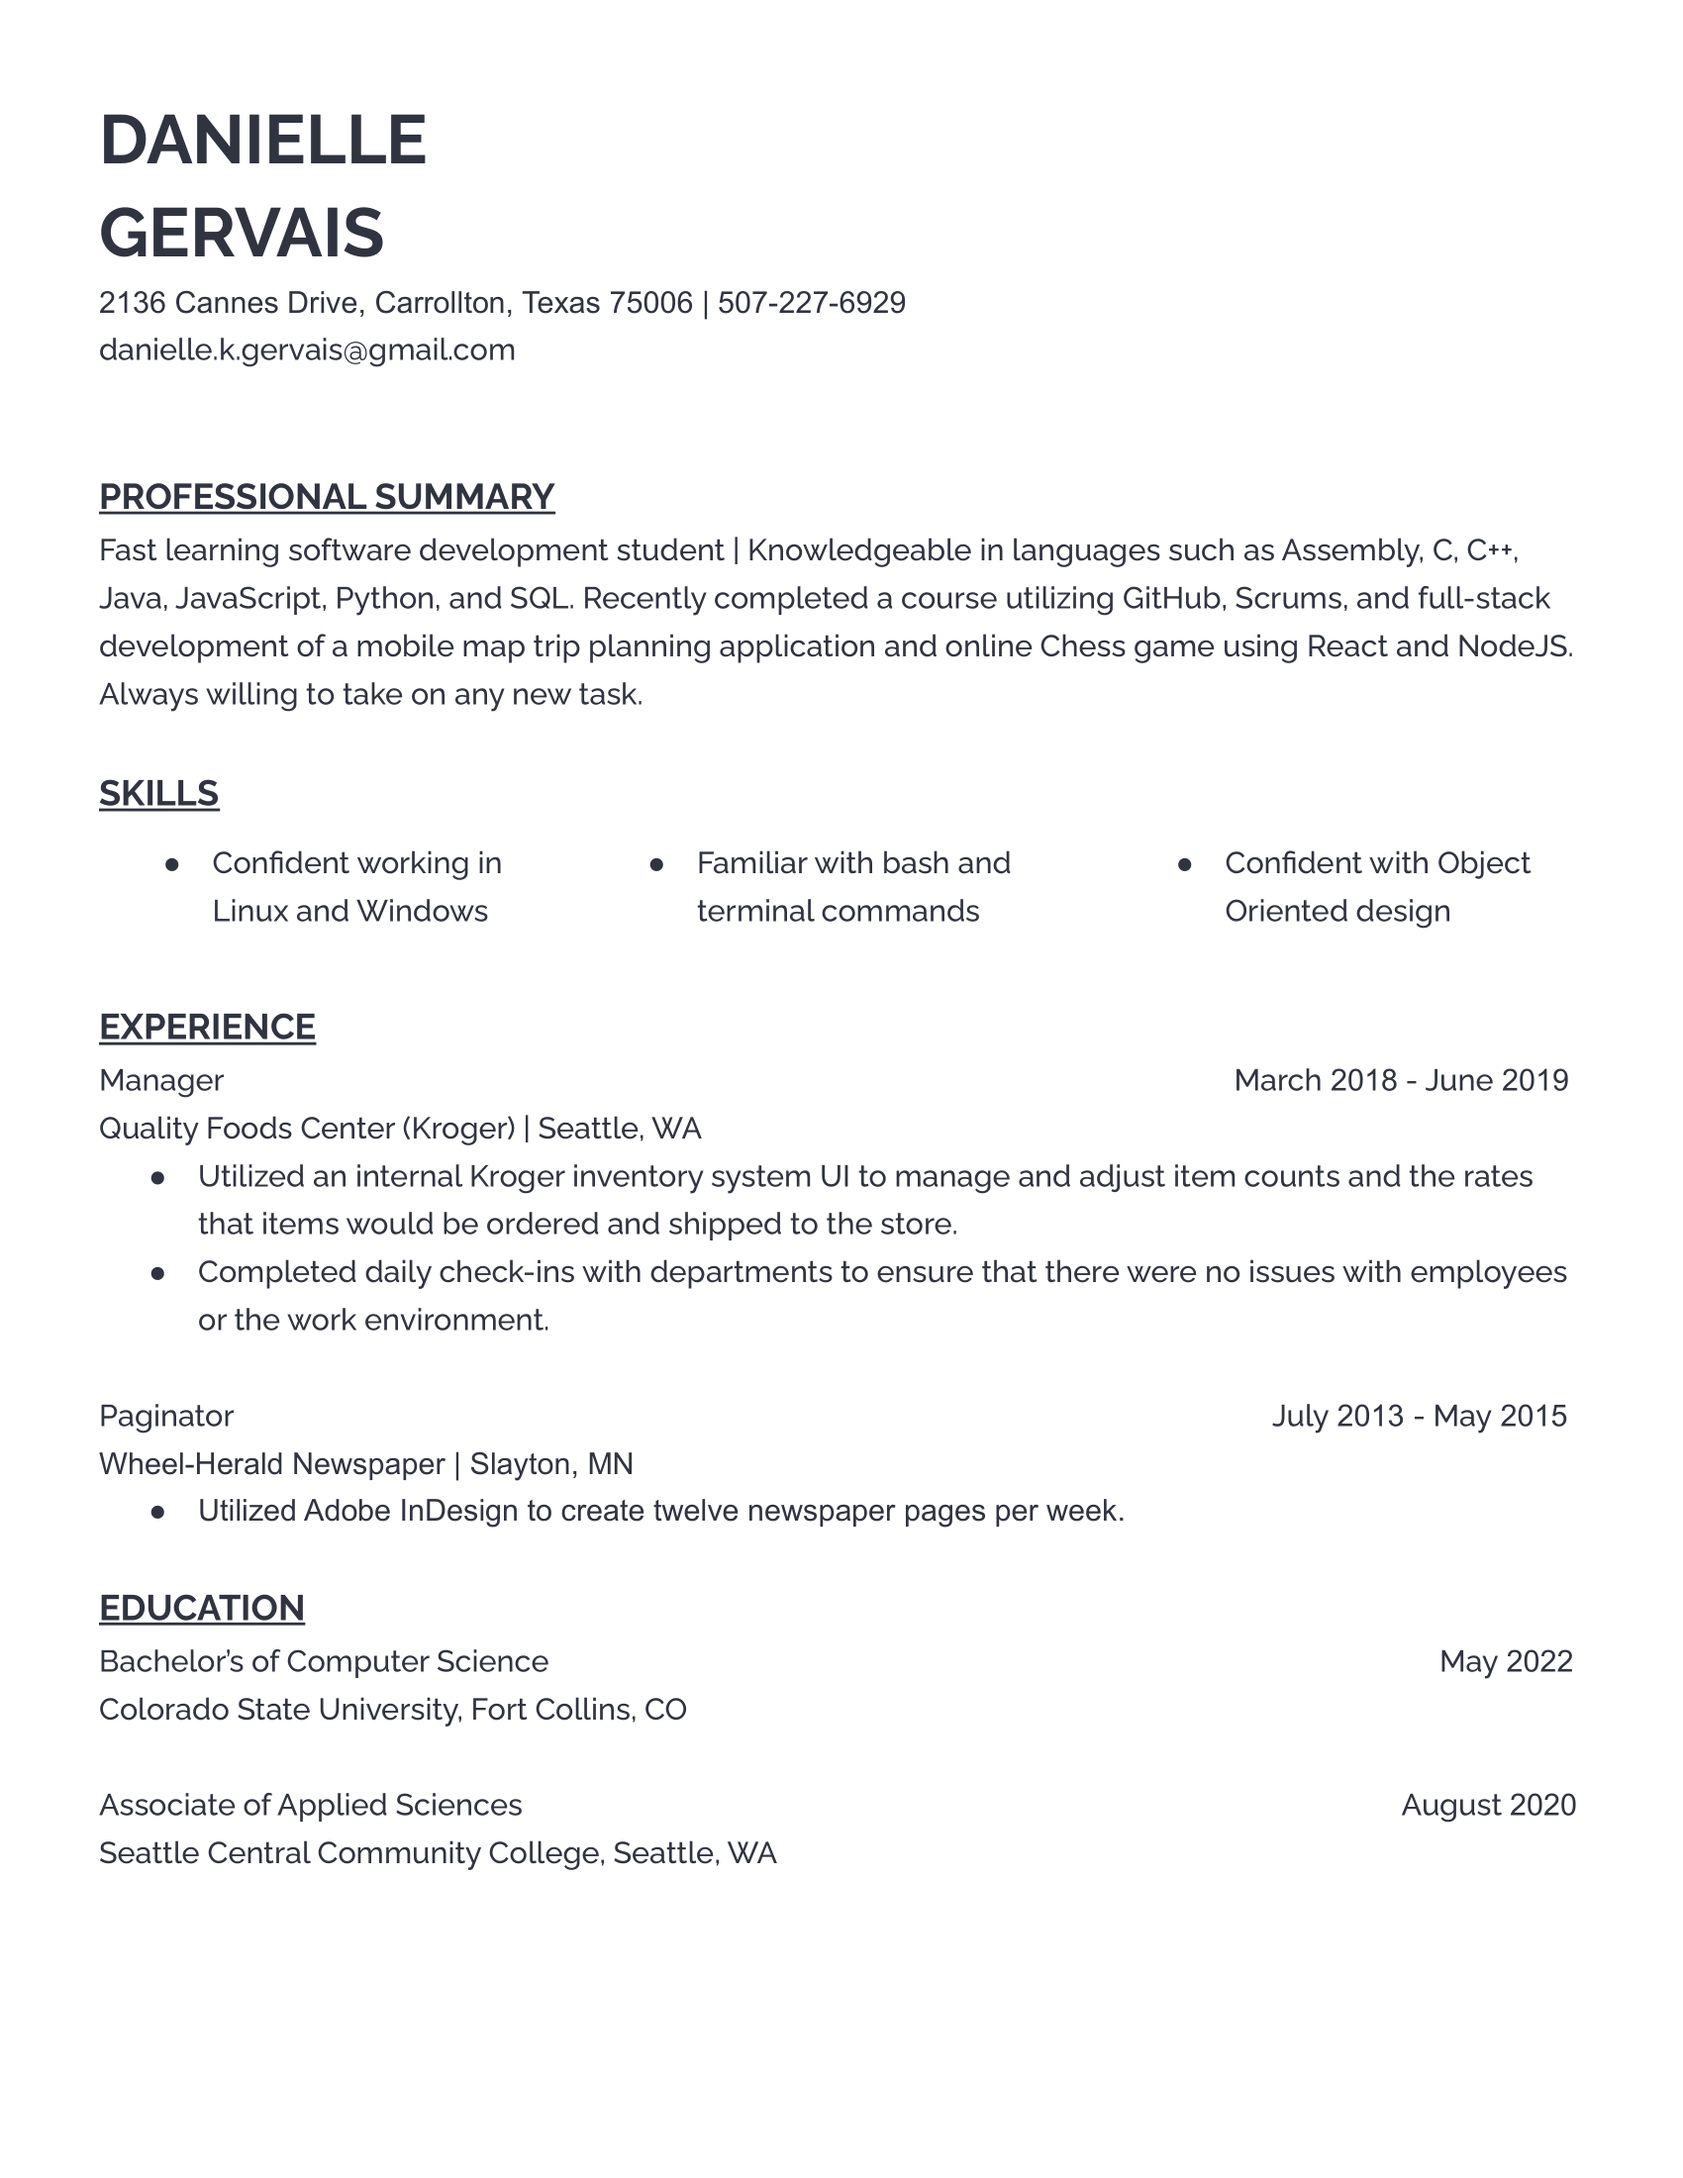
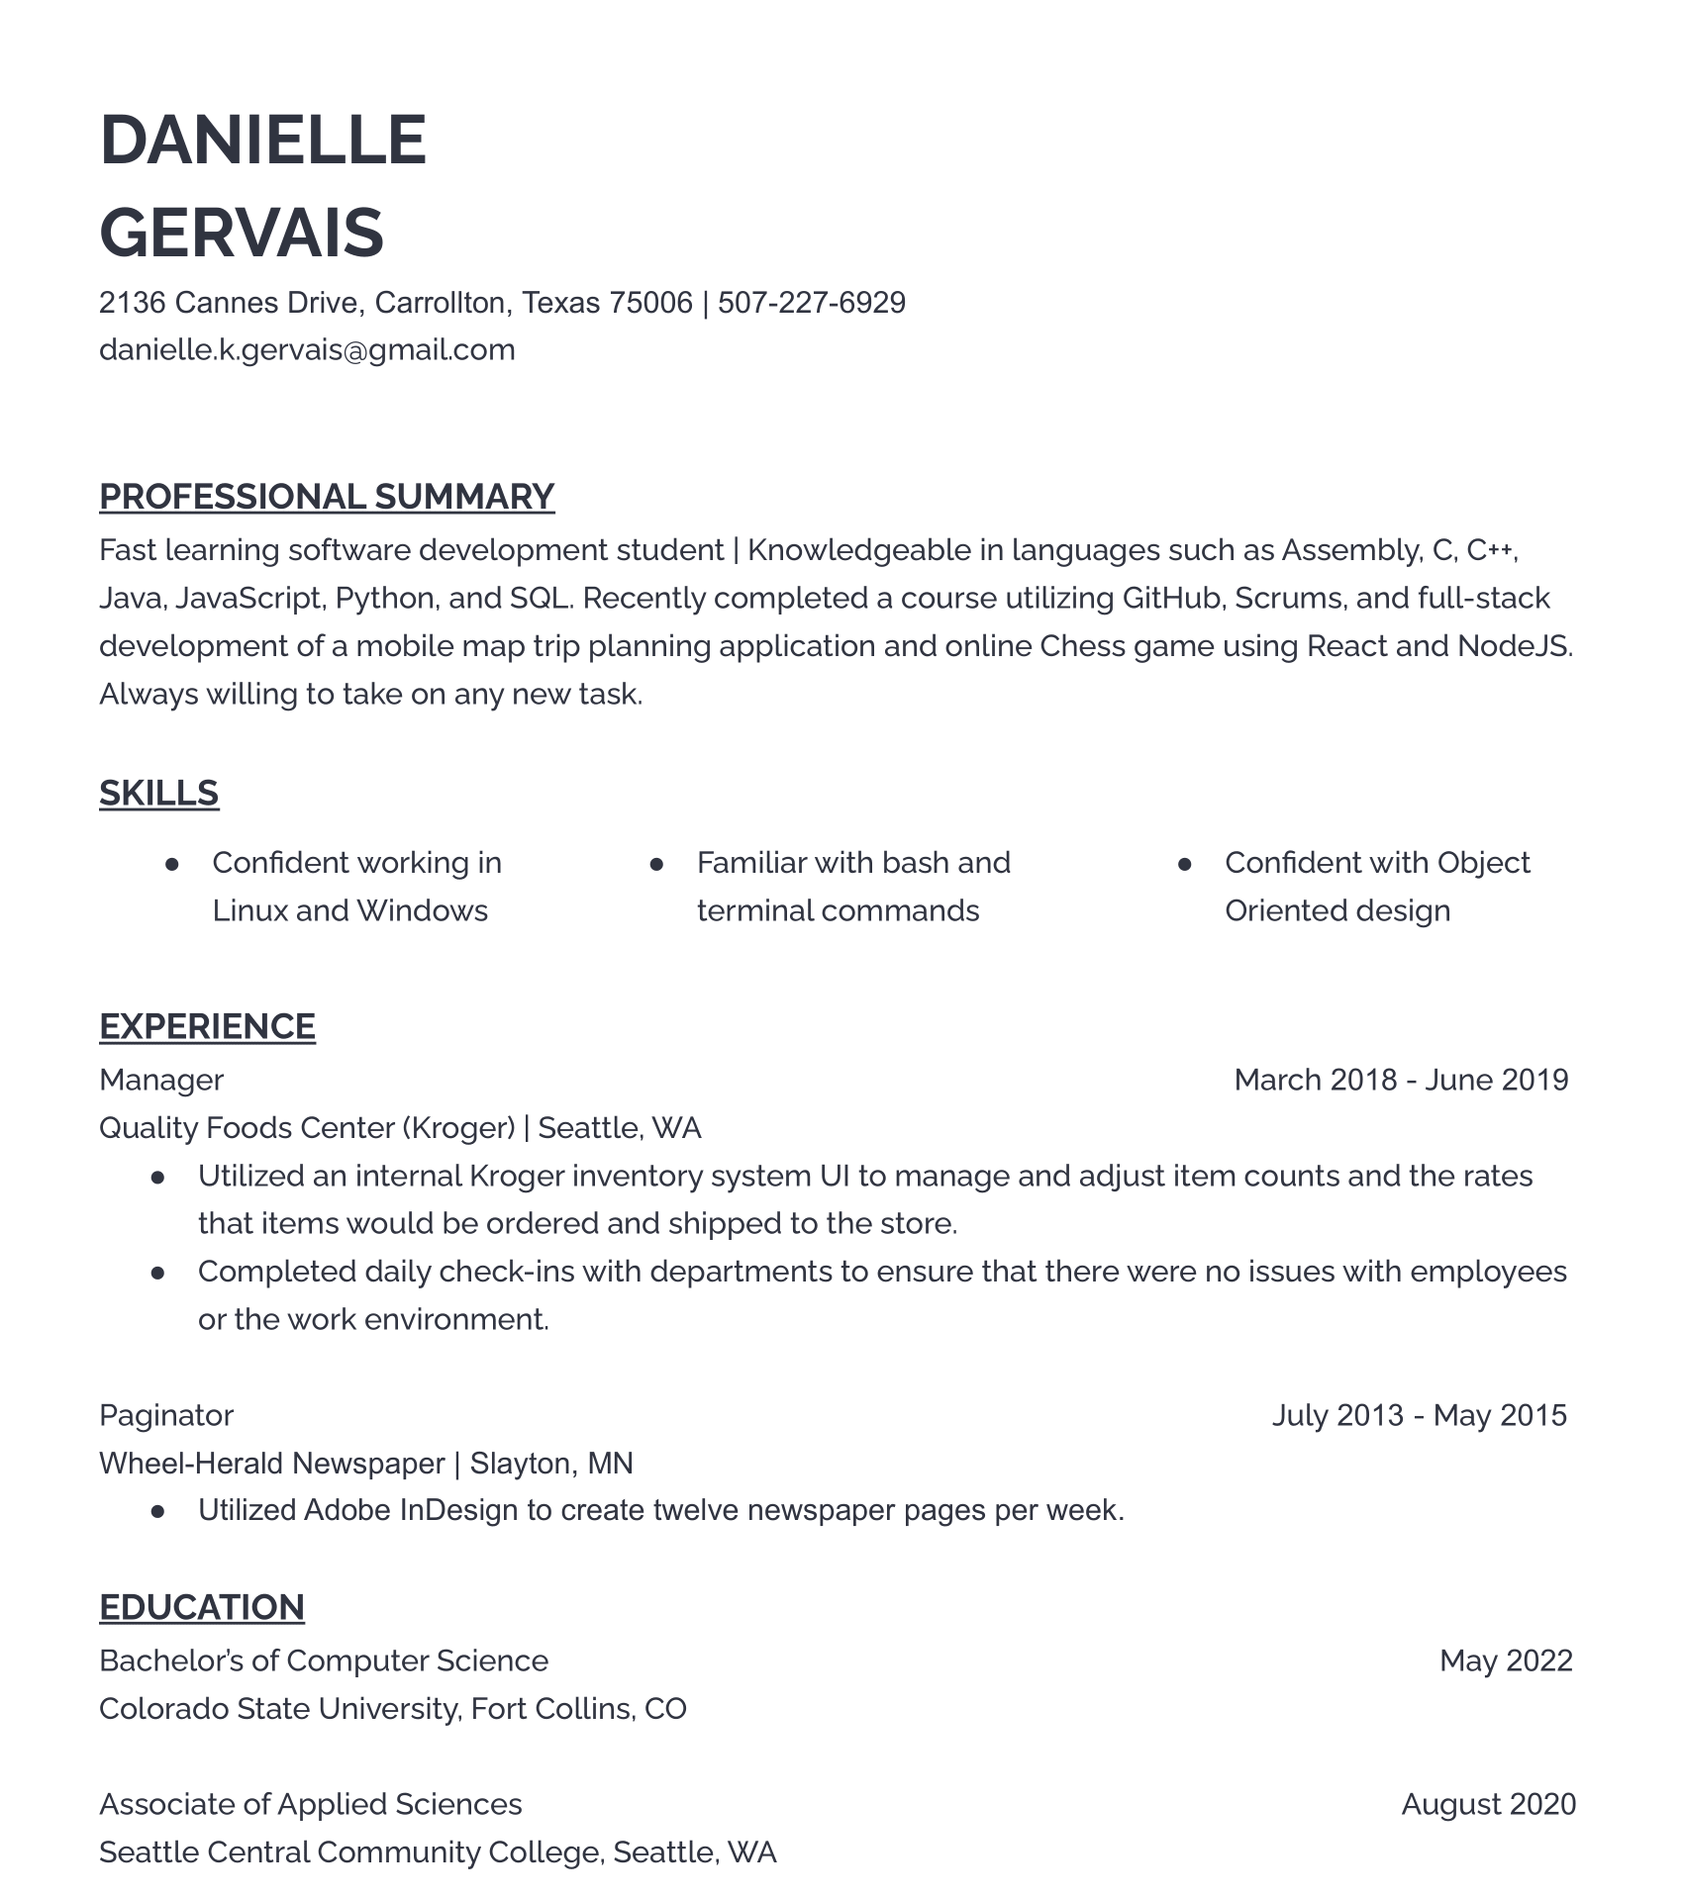
d

diff --git a/resume.html b/resume.html
@@ -36,9 +36,11 @@
 	
 			<div id="content">
 				<div id="content-inner">
-					<div class="center">
-						<img src="images/resume.png" width="65%" height="65%"></iframe>
-					</div>
+					<main id="contentbar">
+						<div class="article">
+							<img src="images/resume.png" alt="Resume" width="75%" height="75%"></iframe>
+						</div>
+					</main>
 					<div class="clr"></div>
 				</div>
 			</div>
